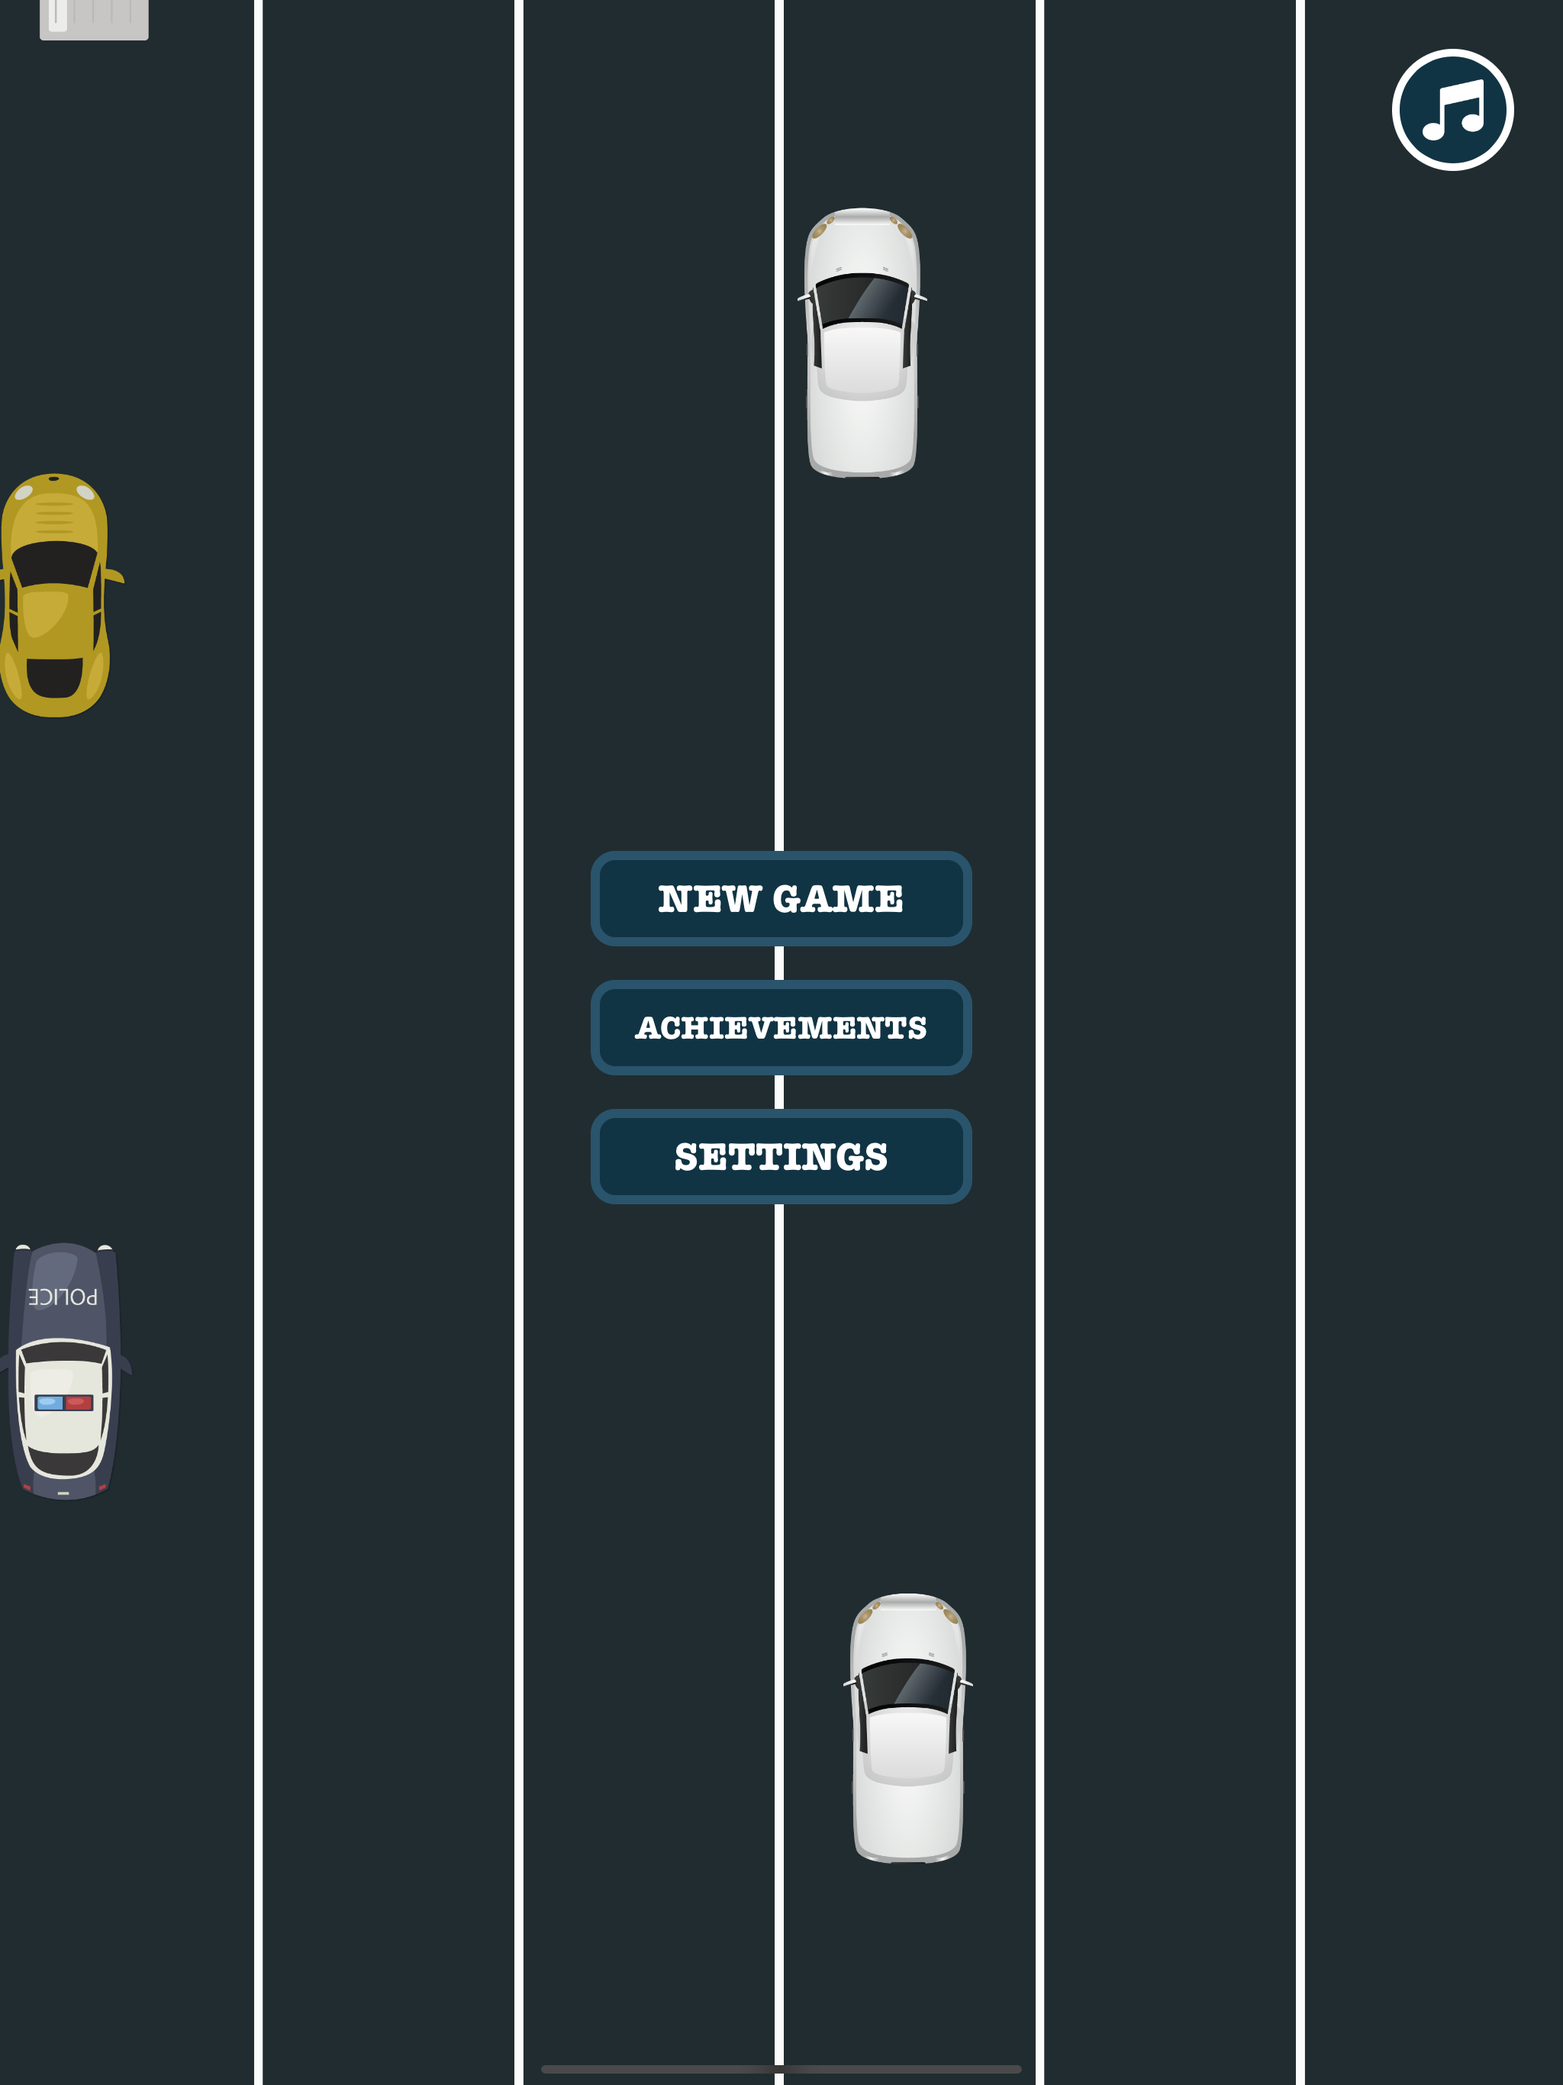
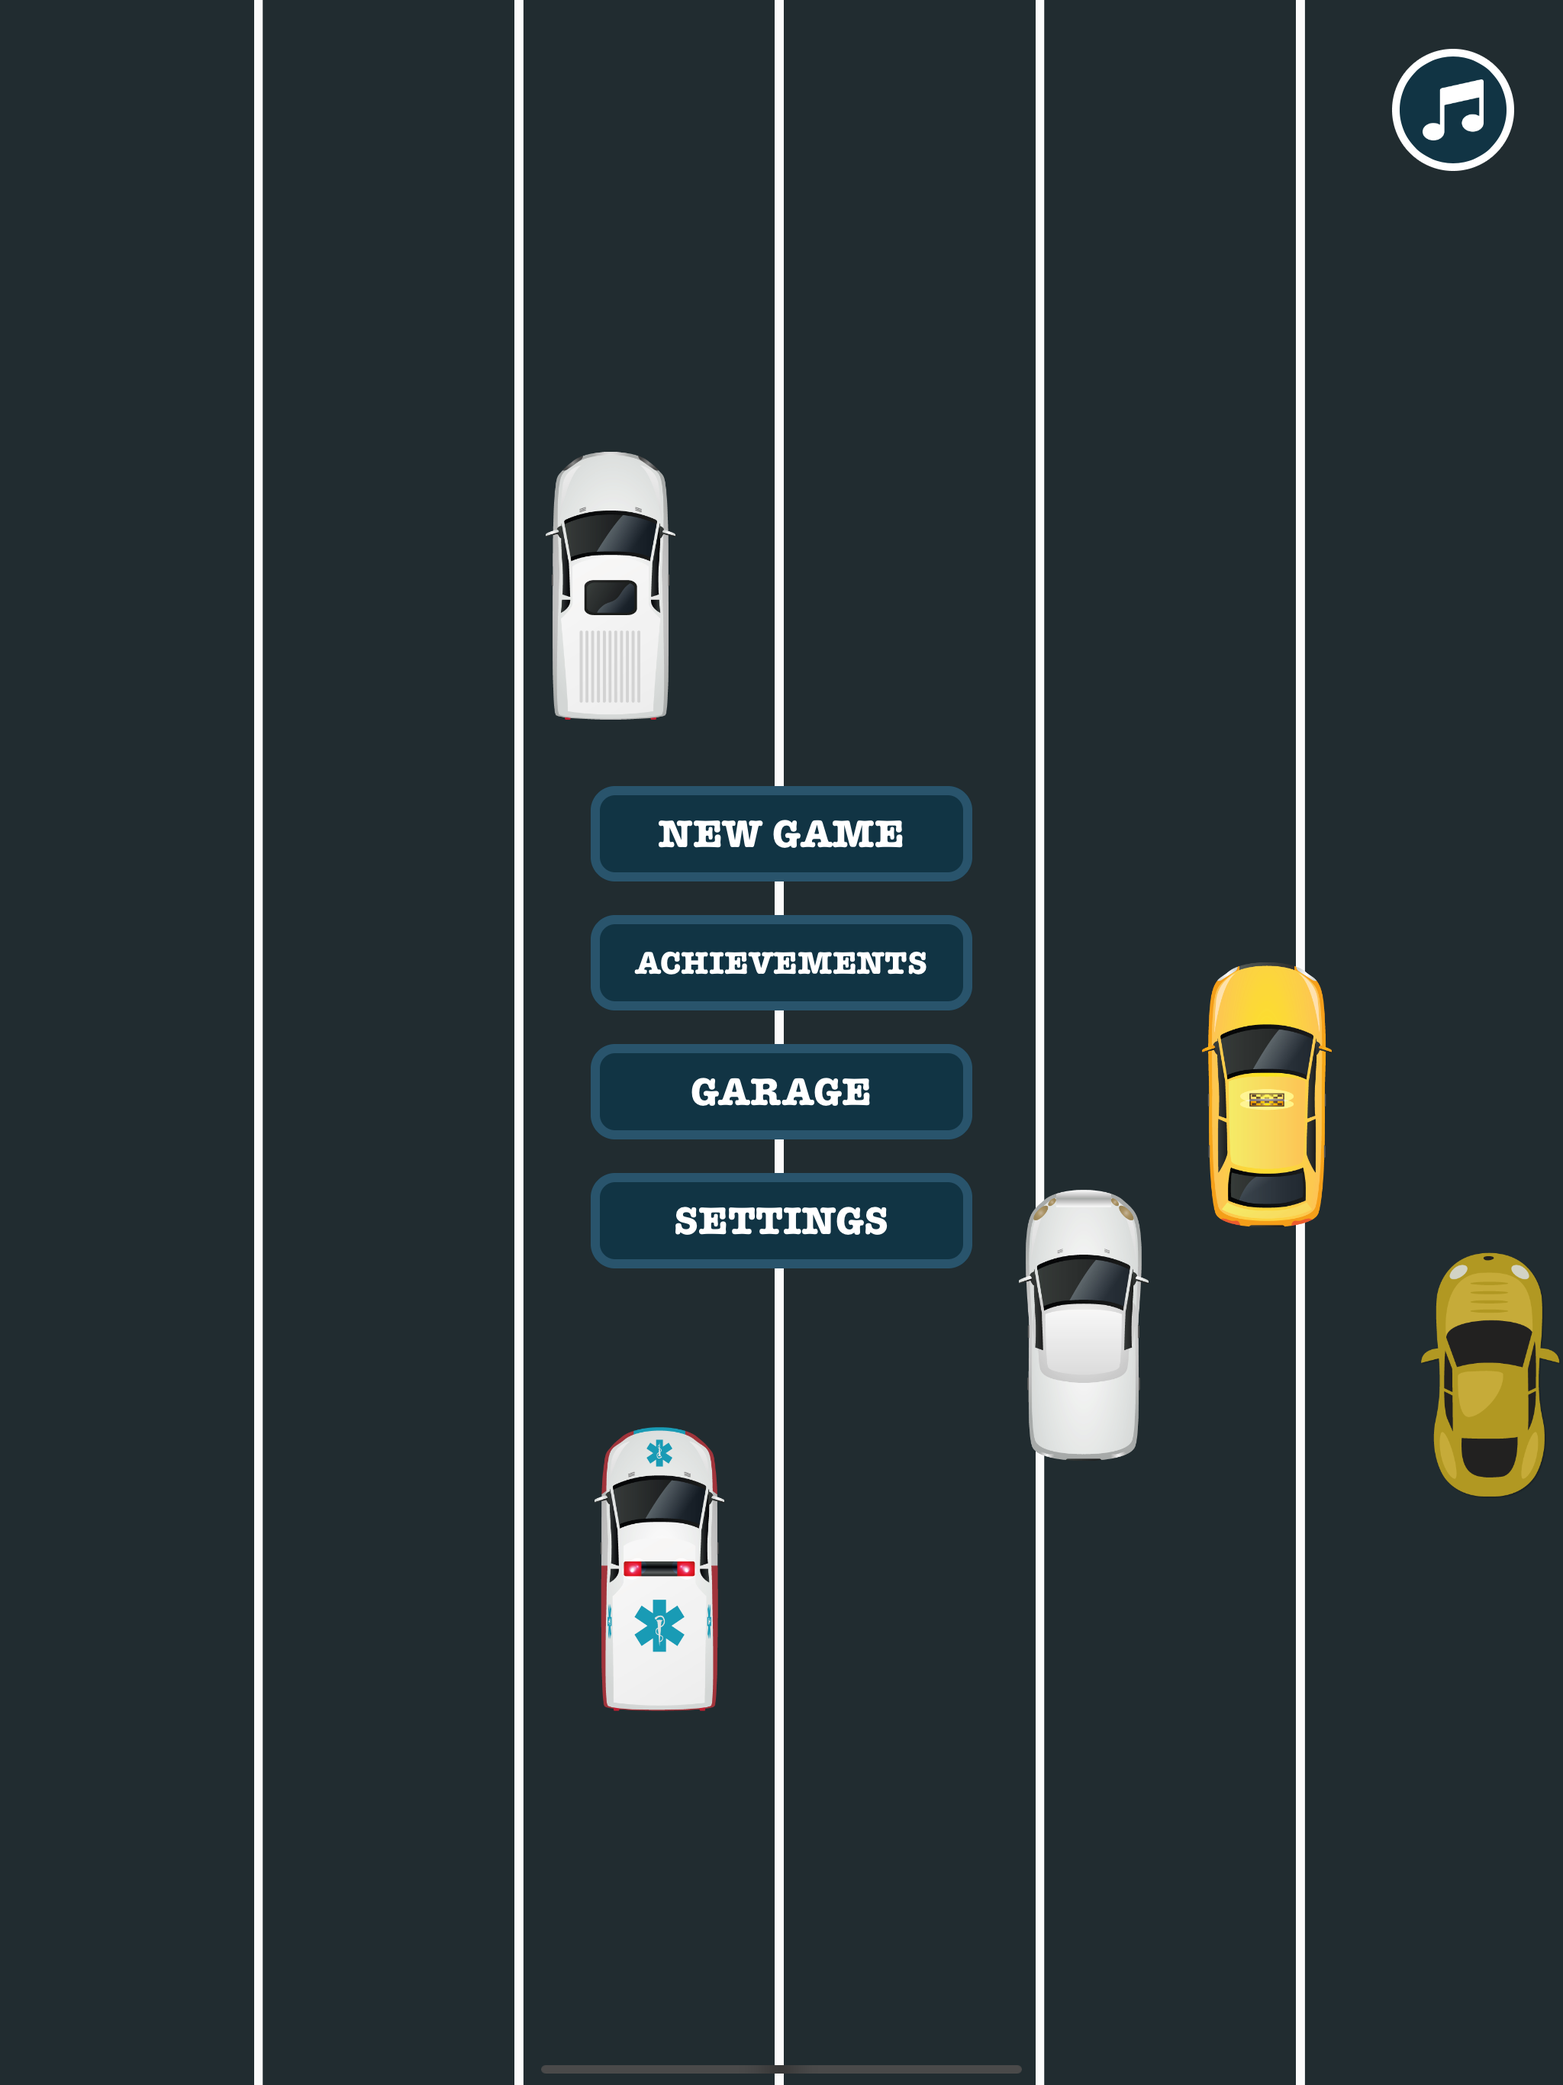
v.2.0.4 build 15

diff --git a/src/Views/GarageMenu.swift b/src/Views/GarageMenu.swift
@@ -1,0 +1,189 @@
+//
+//  GarageMenu.swift
+//  Retro
+//
+//  Created by Atilla Özder on 21.04.2020.
+//  Copyright © 2020 Atilla Özder. All rights reserved.
+//
+
+import UIKit
+
+class GarageMenu: Menu {
+    
+    weak var delegate: MenuDelegate?
+    
+    private let cellID = "cellID"
+    
+    private var dataSource: [String] = [] {
+        didSet {
+            collectionView.reloadData()
+        }
+    }
+    
+    private var itemSize: CGSize {
+        return UIDevice.current.isPad ?
+            .init(width: 120, height: 180) :
+            .init(width: 80, height: 140)
+    }
+    
+    lazy var collectionView: UICollectionView = {
+        let layout = UICollectionViewFlowLayout()
+        layout.itemSize = itemSize
+        layout.minimumLineSpacing = 16
+        layout.minimumInteritemSpacing = 0
+        layout.footerReferenceSize = .zero
+        layout.headerReferenceSize = .zero
+        layout.scrollDirection = .horizontal
+        layout.sectionInset = .zero
+        let cv = UICollectionView(frame: .zero, collectionViewLayout: layout)
+        cv.bounces = false
+        cv.showsVerticalScrollIndicator = false
+        cv.showsHorizontalScrollIndicator = false
+        cv.backgroundColor = .clear
+        cv.isPagingEnabled = true
+        cv.isScrollEnabled = false
+        return cv
+    }()
+    
+    override func setup() {
+        collectionView.register(GarageCollectionCell.self, forCellWithReuseIdentifier: cellID)
+        collectionView.dataSource = self
+        addSubview(collectionView)
+        collectionView.pinSize(to: itemSize)
+        
+        let arrowGenerator: (_ image: String) -> UIImageView = { (imageName) -> UIImageView in
+            let imageView = UIImageView()
+            imageView.contentMode = .scaleAspectFit
+            imageView.image = UIImage(named: imageName)?.withRenderingMode(.alwaysTemplate)
+            imageView.tintColor = .systemGray
+            return imageView
+        }
+
+        let leftArrow = arrowGenerator("left-arrow")
+        leftArrow.addTapGesture(target: self, action: #selector(scrollLeft))
+
+        let rightArrow = arrowGenerator("right-arrow")
+        rightArrow.addTapGesture(target: self, action: #selector(scrollRight))
+                
+        let cars = UIStackView()
+        cars.alignment = .center
+        cars.axis = .horizontal
+        cars.spacing = 16
+        cars.distribution = .fill
+        cars.addArrangedSubview(leftArrow)
+        cars.addArrangedSubview(collectionView)
+        cars.addArrangedSubview(rightArrow)
+
+        stackView.addArrangedSubview(cars)
+        leftArrow.pinWidth(to: rightArrow.widthAnchor)
+        leftArrow.pinHeight(to: rightArrow.heightAnchor)
+        
+        let chooseButton = buildButton(withTitle: .chooseTitle)
+        chooseButton.addTarget(self, action: #selector(didTapChoose(_:)), for: .touchUpInside)
+        backButton.addTarget(self, action: #selector(didTapBack(_:)), for: .touchUpInside)
+
+        let buttons = UIStackView()
+        buttons.alignment = .fill
+        buttons.axis = .vertical
+        buttons.spacing = UIDevice.current.isPad ? 22 : 12
+        buttons.distribution = .fill
+        buttons.addArrangedSubview(chooseButton)
+        buttons.addArrangedSubview(backButton)
+                
+        stackView.addArrangedSubview(buttons)
+        stackView.spacing = UIDevice.current.isPad ? 40 : 30
+        
+        let player = UserDefaults.standard.player
+        var images = [String]()
+        for idx in 0..<20 {
+            let carName = "car\(idx)"
+            carName == player ? images.insert(carName, at: 0) : images.append(carName)
+        }
+        
+        self.dataSource = images
+        self.isHidden = true
+        super.setup()
+    }
+    
+    @objc
+    private func scrollRight() {
+        guard let ip = collectionView.indexPathsForVisibleItems.first else { return }
+        let item = ip.item + 1
+        guard item < dataSource.count else { return }
+        let indexPath = IndexPath(item: item, section: 0)
+        collectionView.scrollToItem(at: indexPath, at: .centeredHorizontally, animated: true)
+    }
+    
+    @objc
+    private func scrollLeft() {
+        guard let ip = collectionView.indexPathsForVisibleItems.first else { return }
+        let item = ip.item - 1
+        guard item >= 0 else { return }
+        let indexPath = IndexPath(item: item, section: 0)
+        collectionView.scrollToItem(at: indexPath, at: .centeredHorizontally, animated: true)
+    }
+    
+    @objc
+    func didTapChoose(_ sender: UIButton) {
+        if let indexPath = collectionView.indexPathsForVisibleItems.first {
+            let selectedCar = dataSource[indexPath.item]
+            UserDefaults.standard.setPlayer(selectedCar)
+            delegate?.menu(self, didUpdateGameState: .home)
+        }
+    }
+    
+    @objc
+    func didTapBack(_ sender: UIButton) {
+        delegate?.menu(self, didUpdateGameState: .home)
+    }
+}
+
+extension GarageMenu: UICollectionViewDataSource {
+    func numberOfSections(in collectionView: UICollectionView) -> Int {
+        return 1
+    }
+    
+    func collectionView(_ collectionView: UICollectionView,
+                        numberOfItemsInSection section: Int) -> Int {
+        return dataSource.count
+    }
+    
+    func collectionView(_ collectionView: UICollectionView,
+                        cellForItemAt indexPath: IndexPath) -> UICollectionViewCell {
+        guard let cell = collectionView.dequeueReusableCell(withReuseIdentifier: cellID, for: indexPath) as? GarageCollectionCell else {
+            return .init()
+        }
+
+        cell.configure(with: dataSource[indexPath.item])
+        return cell
+    }
+}
+
+class GarageCollectionCell: UICollectionViewCell {
+    
+    let imageView: UIImageView = {
+        let iv = UIImageView()
+        iv.contentMode = .scaleAspectFit
+        iv.backgroundColor = .clear
+        return iv
+    }()
+    
+    override init(frame: CGRect) {
+        super.init(frame: frame)
+        setup()
+    }
+    
+    required init?(coder: NSCoder) {
+        super.init(coder: coder)
+        setup()
+    }
+    
+    private func setup() {
+        contentView.addSubview(imageView)
+        imageView.pinEdgesToSuperview()
+    }
+    
+    func configure(with car: String) {
+        imageView.image = UIImage(named: car)
+    }
+}

diff --git a/src/GameViewController.swift b/src/GameViewController.swift
@@ -20,6 +20,7 @@ enum GameState: Int {
     case settings
     case achievements
     case continued
+    case garage
 }
 
 // MARK: - GameViewController
@@ -39,7 +40,7 @@ class GameViewController: UIViewController {
     
     var gameState: GameState = .home {
         didSet {
-            let menus = [homeMenu, advertisementMenu, settingsMenu, achievementsMenu, playingMenu, pauseMenu]
+            let menus = [homeMenu, advertisementMenu, settingsMenu, achievementsMenu, playingMenu, pauseMenu, garageMenu]
             menus.forEach { (menu) in
                 menu.isHidden = true
             }
@@ -72,6 +73,8 @@ class GameViewController: UIViewController {
                 case .continued:
                     gameScene.isPaused = false
                     playingMenu.isHidden = false
+                case .garage:
+                    garageMenu.isHidden = false
                 }
             }
             
@@ -85,6 +88,7 @@ class GameViewController: UIViewController {
     private lazy var achievementsMenu = AchievementsMenu()
     private lazy var playingMenu = PlayingMenu()
     private lazy var pauseMenu = PauseMenu()
+    private lazy var garageMenu = GarageMenu()
     
     override var prefersStatusBarHidden: Bool {
         return true
@@ -145,6 +149,10 @@ class GameViewController: UIViewController {
         settingsMenu.pinEdgesToSuperview()
         settingsMenu.delegate = self
         
+        self.view.addSubview(garageMenu)
+        garageMenu.pinEdgesToSuperview()
+        garageMenu.delegate = self
+        
         self.view.addSubview(homeMenu)
         homeMenu.pinEdgesToSuperview()
         homeMenu.delegate = self
@@ -190,7 +198,6 @@ class GameViewController: UIViewController {
         if let menuScene = skView.scene as? MenuScene {
             scene.insets = menuScene.insets
             scene.cachedCars = menuScene.cachedCars
-            scene.playerNode = menuScene.playerNode
         } else {
             if #available(iOS 11.0, *) {
                 scene.insets = skView.safeAreaInsets

diff --git a/src/Views/HomeMenu.swift b/src/Views/HomeMenu.swift
@@ -23,6 +23,10 @@ class HomeMenu: Menu {
         achievementsButton.addTarget(self, action: #selector(didTapAchievements(_:)), for: .touchUpInside)
         stackView.addArrangedSubview(achievementsButton)
         
+        let garageButton = buildButton(withTitle: .garageTitle)
+        garageButton.addTarget(self, action: #selector(didTapGarage(_:)), for: .touchUpInside)
+        stackView.addArrangedSubview(garageButton)
+        
         let settingsButton = buildButton(withTitle: .settingsTitle)
         settingsButton.addTarget(self, action: #selector(didTapSettings(_:)), for: .touchUpInside)
         stackView.addArrangedSubview(settingsButton)
@@ -66,6 +70,11 @@ class HomeMenu: Menu {
     @objc
     func didTapNewGame(_ sender: UIButton) {
         delegate?.menu(self, didUpdateGameState: .playing)
+    }
+    
+    @objc
+    func didTapGarage(_ sender: UIButton) {
+        delegate?.menu(self, didUpdateGameState: .garage)
     }
     
     @objc

diff --git a/src/Game/GameScene.swift b/src/Game/GameScene.swift
@@ -54,7 +54,7 @@ class GameScene: SKScene {
     weak var sceneDelegate: SceneDelegate?
     
     lazy var playerNode: SKSpriteNode = {
-        let image = "player"
+        let image = UserDefaults.standard.player
         let texture = SKTexture(imageNamed: image)
         let _ = texture.size()
         
@@ -149,7 +149,13 @@ class GameScene: SKScene {
     
     private lazy var cars: [Car] = {
         var cars = [Car]()
-        for idx in 1...20 { cars.append(.init(index: idx)) }
+        let player = UserDefaults.standard.player
+        for idx in 0...20 {
+            let carName = "car\(idx)"
+            if carName != player {
+                cars.append(.init(index: idx))
+            }
+        }
         return cars
     }()
     

diff --git a/src/Utilities/Extensions.swift b/src/Utilities/Extensions.swift
@@ -44,8 +44,16 @@ extension UserDefaults {
         set(value, forKey: "session")
     }
         
-    func setSound(_ newValue: Bool) {
-        set(!newValue, forKey: "sound_preference")
+    func setSound(_ sound: Bool) {
+        set(!sound, forKey: "sound_preference")
+    }
+    
+    var player: String {
+        return string(forKey: "player") ?? "car0"
+    }
+    
+    func setPlayer(_ player: String) {
+        set(player, forKey: "player")
     }
 }
 

diff --git a/src/Utilities/Utilities.swift b/src/Utilities/Utilities.swift
@@ -85,6 +85,8 @@ enum MainStrings: String {
     case moreAppTitle = "moreAppTitle"
     case shareTitle = "shareTitle"
     case continueTitle = "continueTitle"
+    case garageTitle = "garageTitle"
+    case chooseTitle = "chooseTitle"
     
     var localized: String {
         return NSLocalizedString(self.rawValue, comment: "")

diff --git a/README.md b/README.md
@@ -4,19 +4,33 @@
 [![Language: Swift](https://img.shields.io/badge/language-Swift-orange.svg)](https://developer.apple.com/swift/) [![Platform: iOS](https://img.shields.io/badge/platform-iOS-000000.svg)](https://cocoapods.org/) [![License: MIT](https://img.shields.io/badge/License-MIT-green.svg)](https://opensource.org/licenses/MIT)
 
 
-Drive Fast - Retro car racing is the ultimate top-down racing game, with many different cars. Experience thrilling top down racing in one of the best-looking 2 dimensional racing games.
+Drive Fast - Retro Car Racing is a retro-inspired, super-fun racing game that gives you the pure experience of real arcade gameplay. Simple controls and tons of fun with a classic 2D top-down view, amazing pixel art and an iconic soundtrack.
 
-Racing games are among the most popular in all of mobile gaming. It was the first genre to overcome the lack of physical buttons on smartphones well enough that it made the games worth playing. Most popular racing games have tens of millions of fans. That doesn’t mean they’re the best, though. Which ones should you try? Here is one of the best racing game for iOS.
+Do you enjoy racing your car at extreme speeds? In Drive Fast - Retro car racing you get your chance to prove your skills. It is not easy to dodge other cars with high speed on the road.
 
-Drive Fast - Retro car racing is an exciting game with eye-catching graphics that can keep you entertained for hours. Drive Fast is based on one of the nostalgic and old driving games that are simulated very high quality. You have to drive carefully with your car and try not to deal with other cars.
+Drive your car through the heavy traffic jam like a warrior. The goal is to reach the finish line without running out of fuel or hitting other cars. There are 3 maps to victory.
+
+You can race pass other cars, or drift through and push them sideway. Just don't try it with the big truck. 
+
+Drive Fast - Retro car racing is a simple car game suitable for the kids. Drive Fast - Retro car racing mainly is about collecting the fuel to get highest score by avoiding getting into accident with other vehicles and run as far as possible.
 
 Features:
-
-- Different car
+- Different cars
 - Realistic car physics and sound effects
 - Fun gameplay
 - Visual stunning 2 dimensional graphics
-- Weather effects
+
+How to Play:
+- Move left or right to avoid obstacle 
+- Compete for the best score in the world
+
+Drive Fast - Retro car racing is one of the best simple and fun racing games for kids! This free game is made for 2+ years. Choose your ride and guide it to the finish line! Control your car with just moving phone and see how it drift and rolls on its way. Other racing games become boring for your kid because of hard levels or controls? This is what you were looking for! Fast, simple and exciting car racing!
+
+Gain enough speed to turn between the vehicle on the road. Your kid will love all the surprises in each stage and each road map! There are also plenty of fuel car to collect for better results while rolling for the win! Let your kids to start the engine and drive these rally cars in the shortest time possible and this will make them happy! Even a toddler can play this game without any problems!
+
+The comic cars reminds the toys and child-friendly soundtrack makes the mood ready for the awesome ride! This game will also help with hand-eye coordination!
+
+Download Drive Fast - Retro Car Racing now, and start your challenge.
 
 ## Appearance
 
